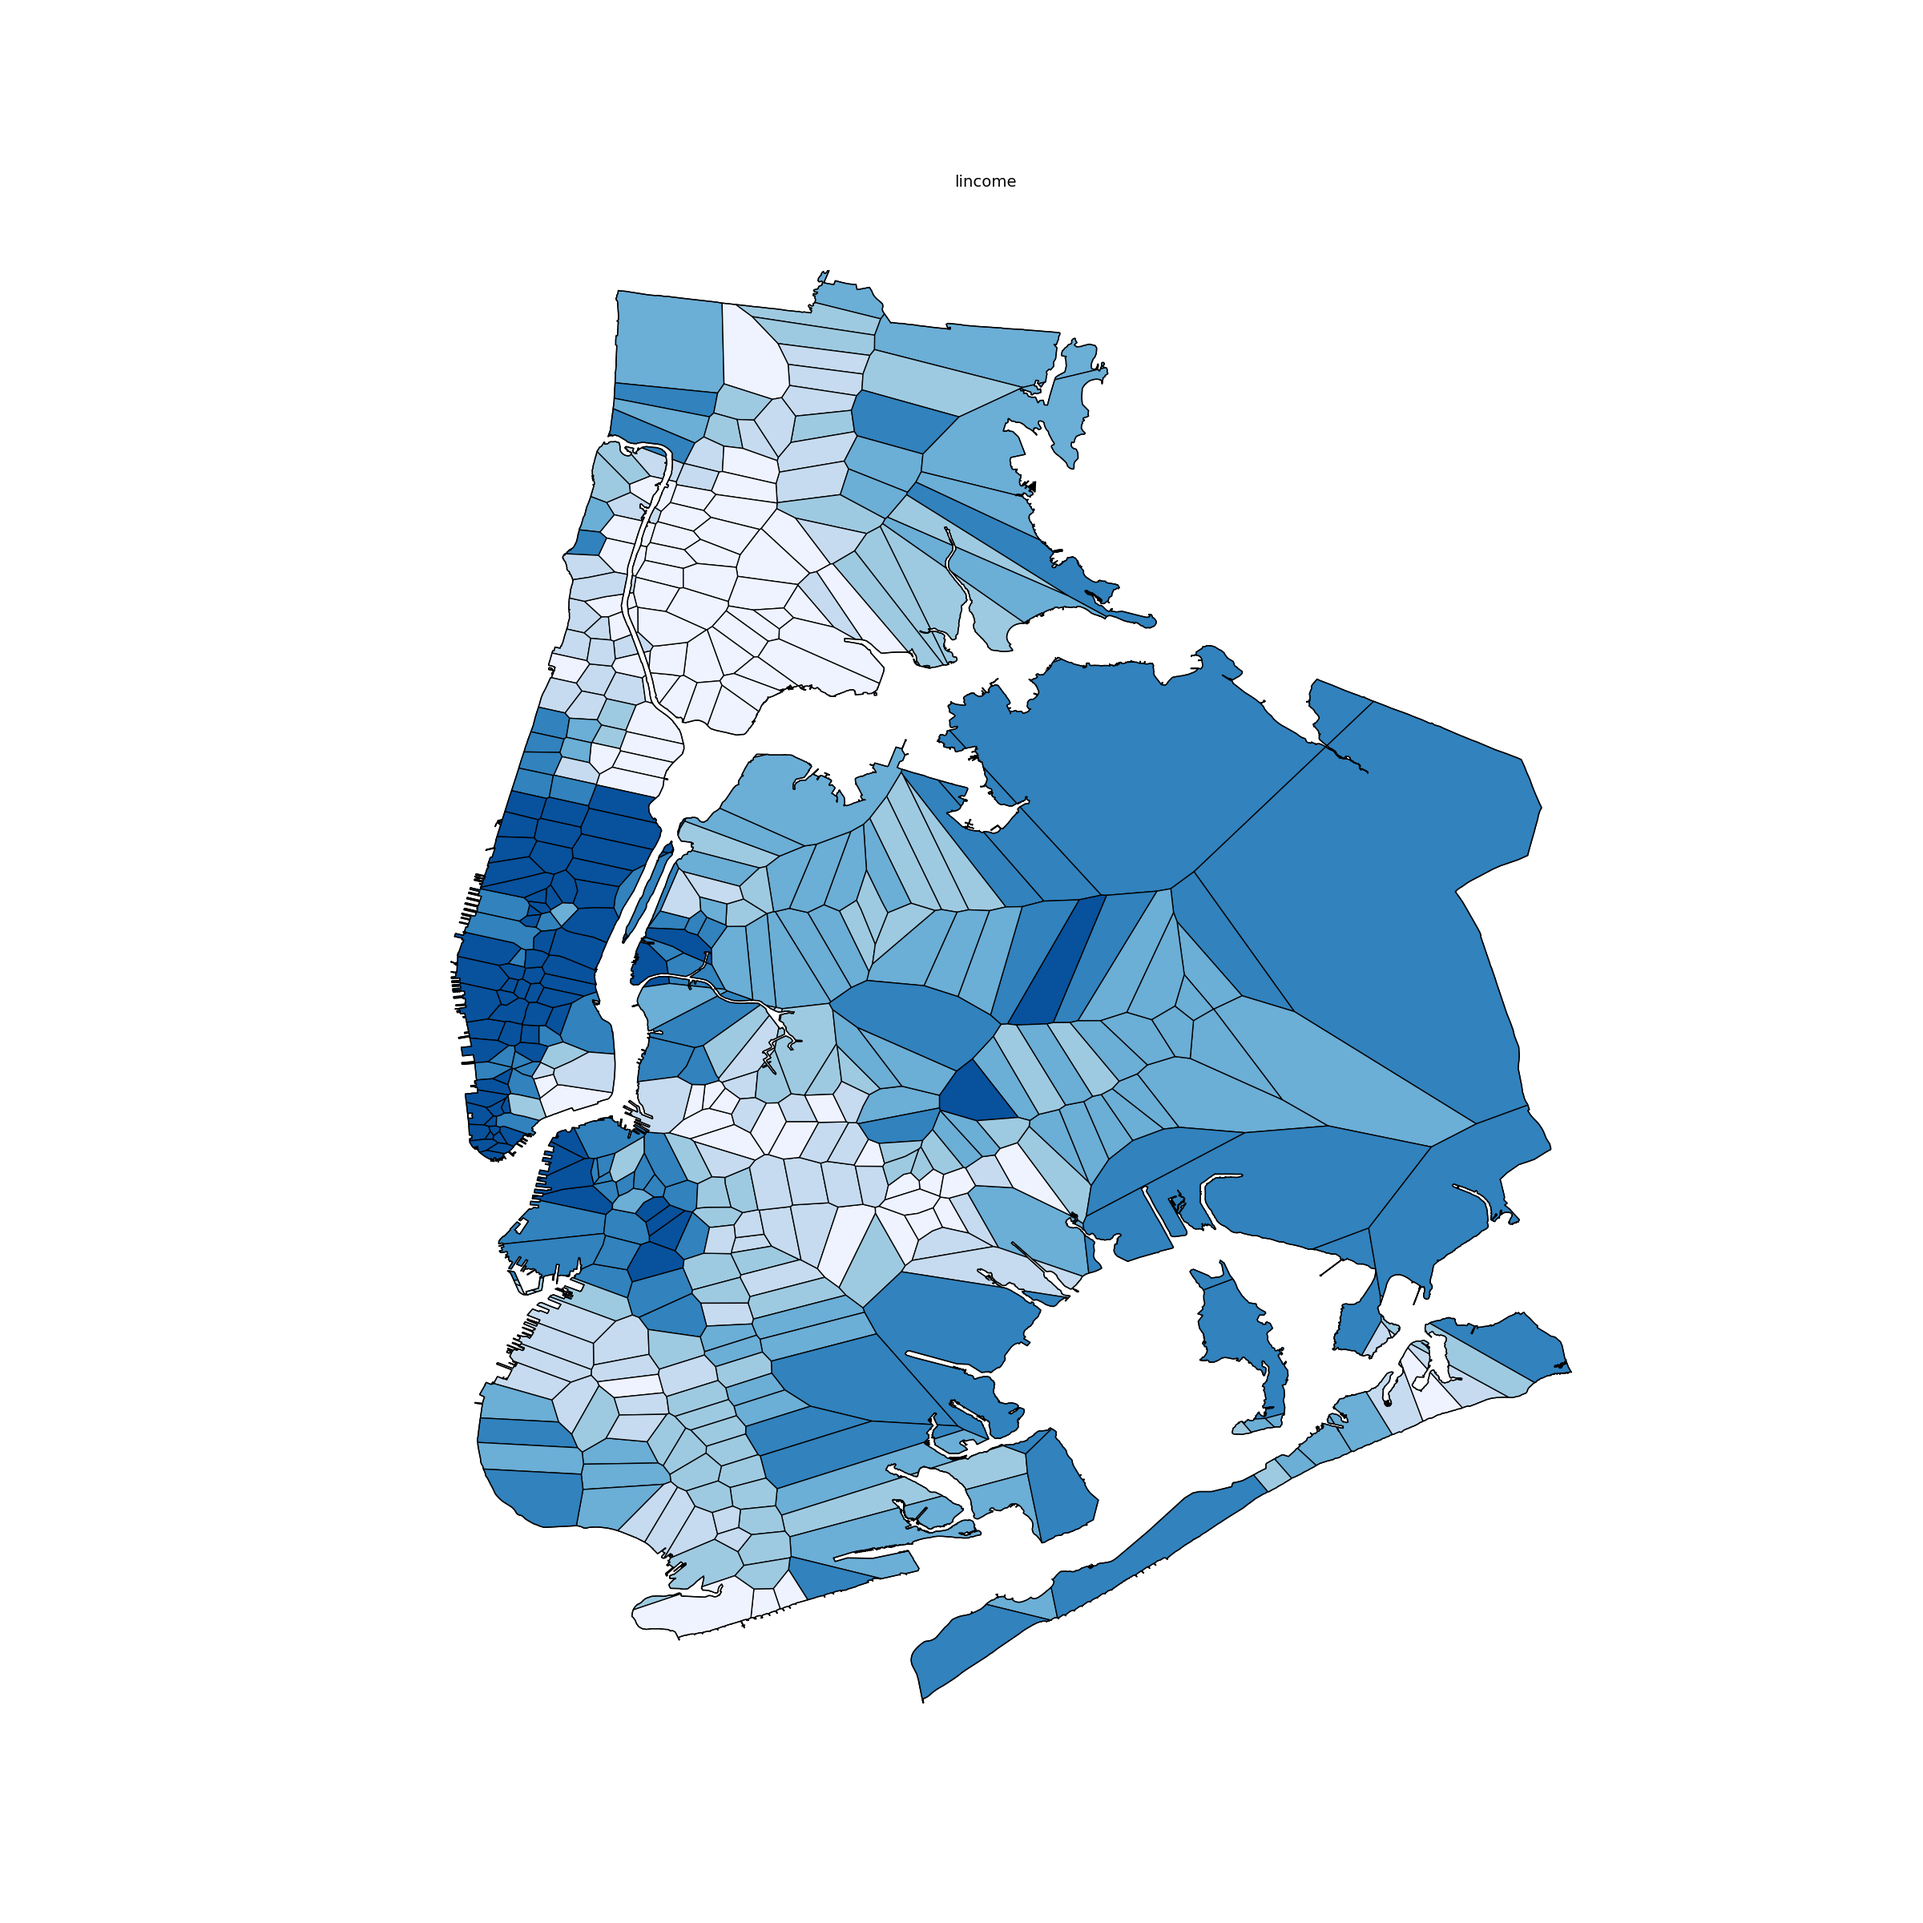
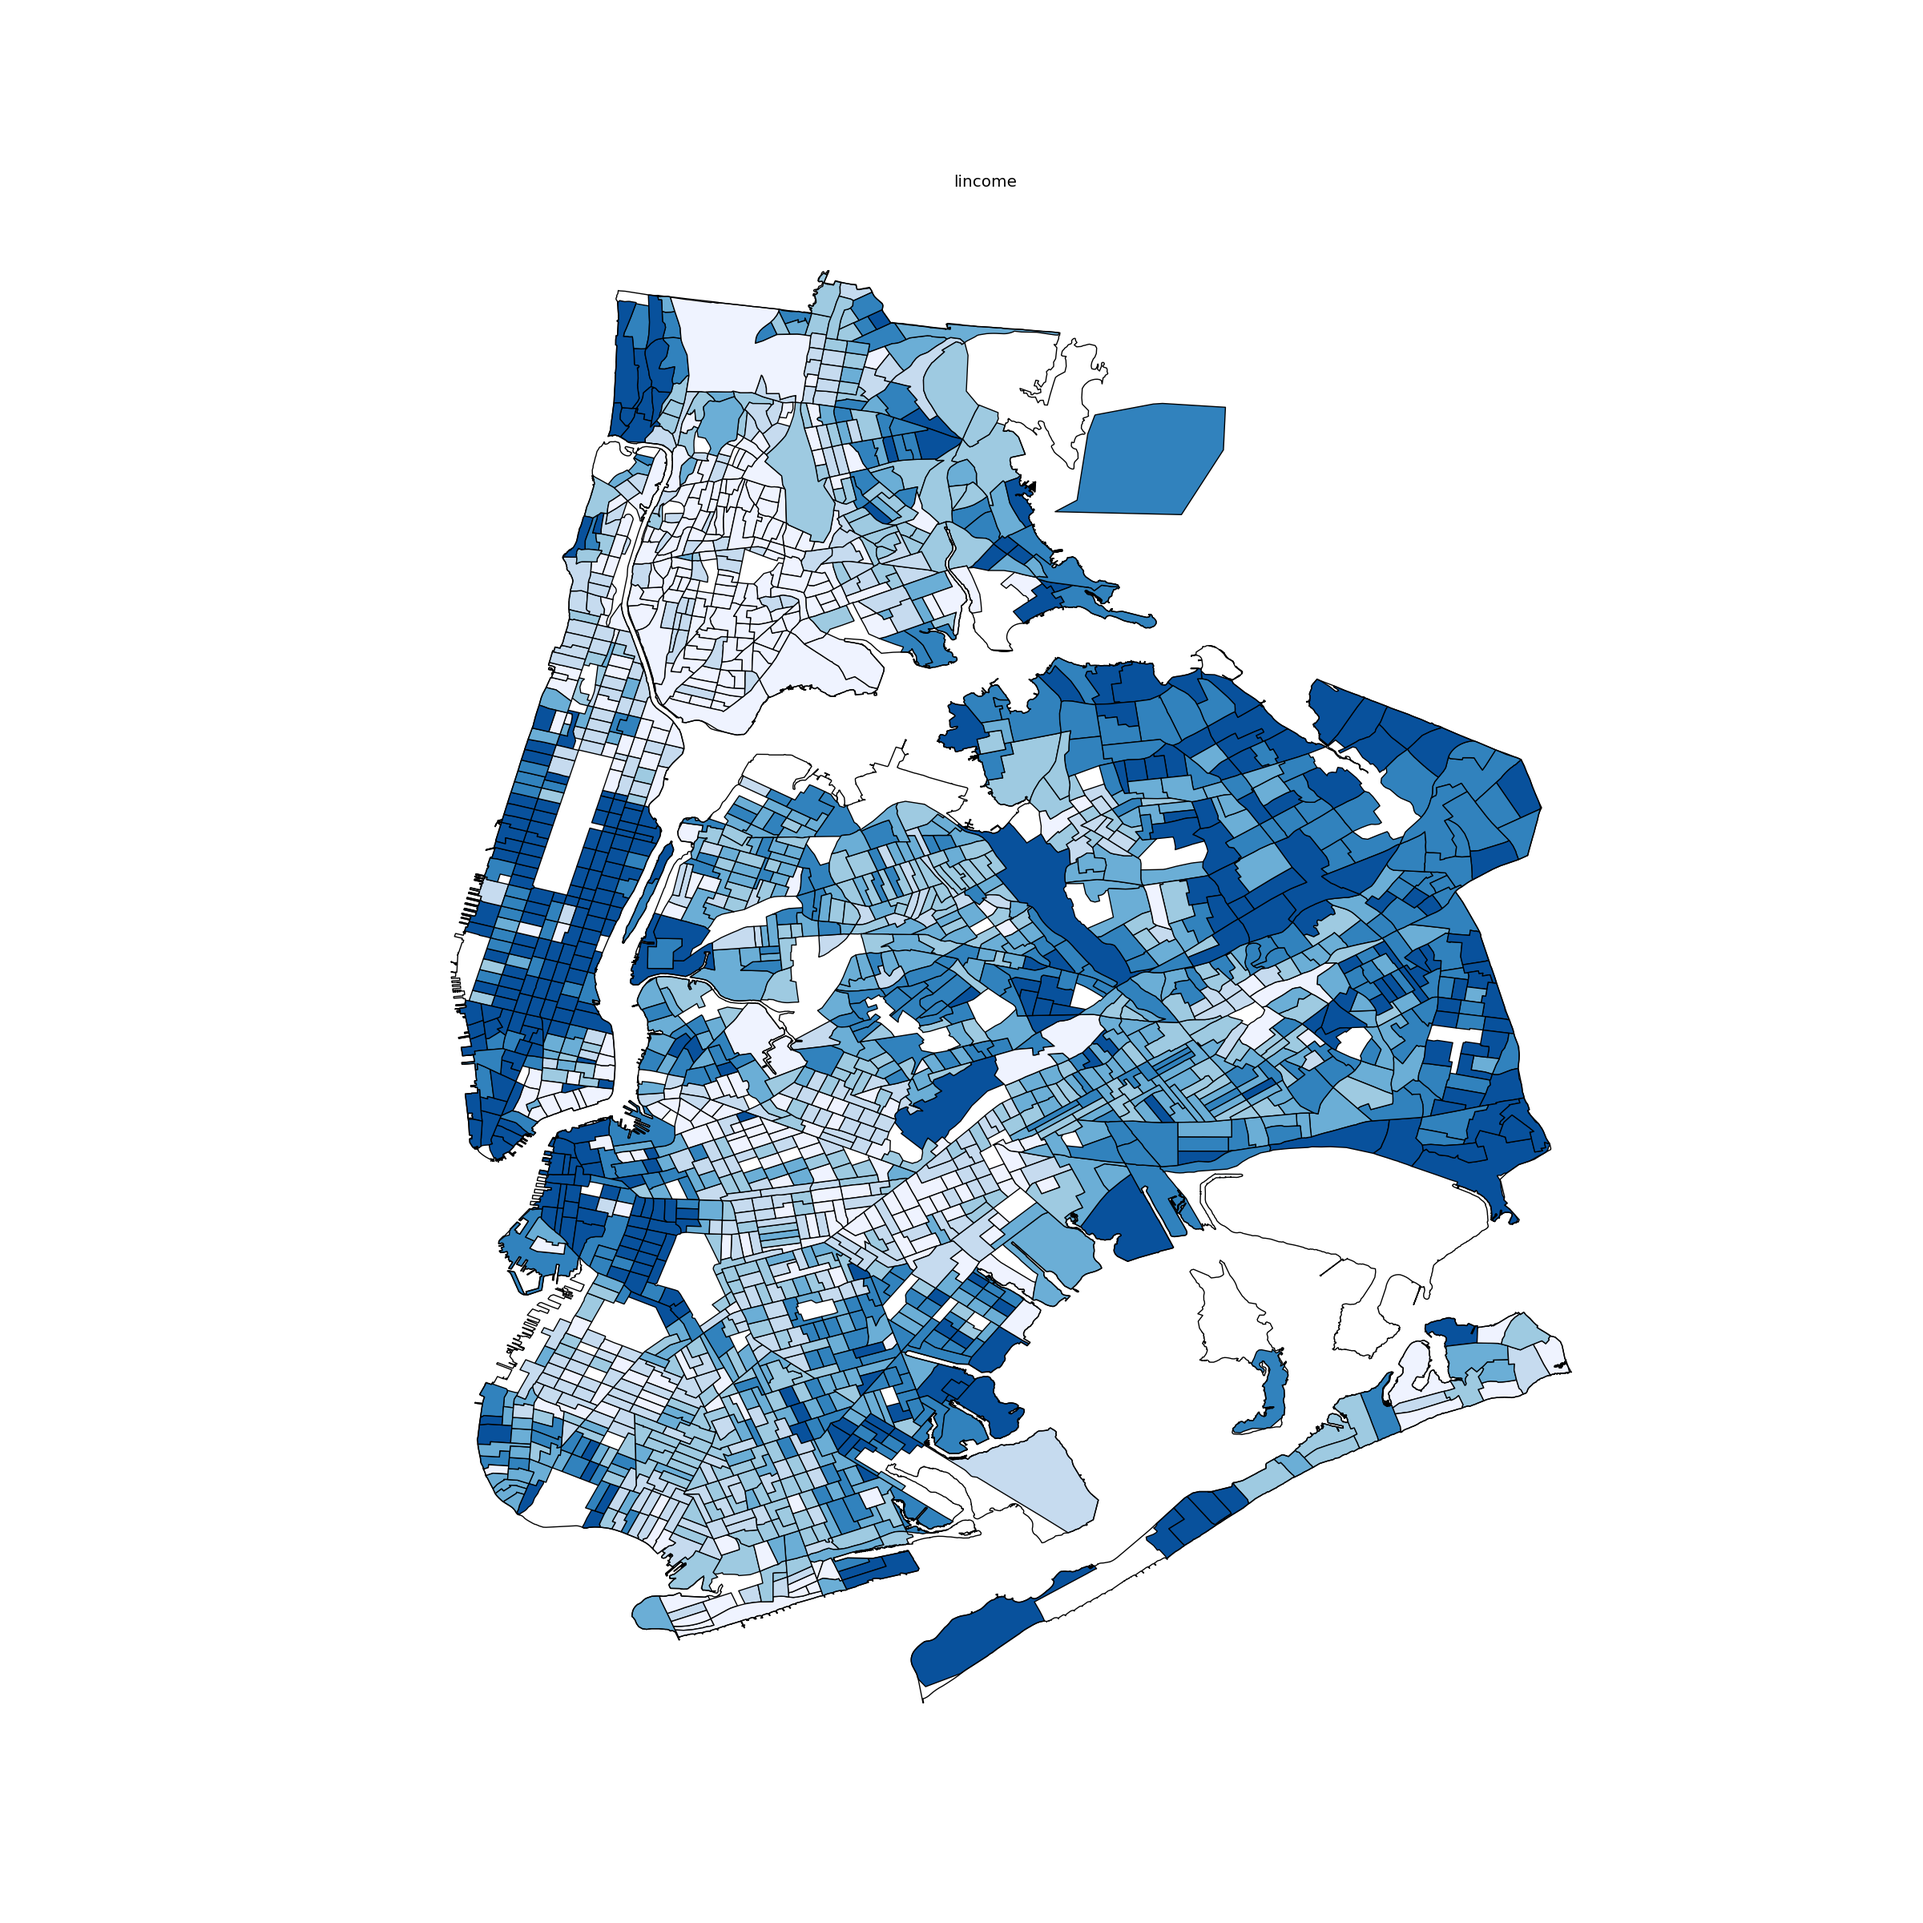
general utility functions

Changed region(s): [[0.2188, 0.125, 0.8125, 0.875]]

diff --git a/choropleth.py b/choropleth.py
@@ -7,51 +7,53 @@ import numpy as np
 # stops = pickle.load(open('save/stops_pop.p','rb'))
 tracts = pickle.load(open('save/tracts.p','rb'))
 
-measure = 'lpop_dens'
-outname = 'save/plots/choropleth_' + measure + '.png'
+measures = ['lpop_dens','lincome','graph_connectedness','v_larea']
 
-# Plotting
-# # This is a choropleth according to area
-fig = plt.figure(1,dpi=540,frameon=False)
-plt.title(measure)
-ax = fig.add_subplot(111)
-
-fig.set_size_inches(24,24)
-ax.axis('off')
-
-# calculate percentiles for binning area
-q = float(100)/6
-qs = q*np.arange(7)
-qs = np.percentile(tracts[measure], qs.tolist())
-qs = np.vstack([qs[:-1], qs[1:]]).T
-
-# 'Blues' colorscheme from colorbrewer2.org; ascending from white to blue
-colors = ['#EFF3FF', '#C6DBEF', '#9ECAE1', '#6BAED6', '#3182BD', '#08519C']
-for row in tracts.iterrows():
-    row = row[1]
-    if not np.isnan(row[measure]):
-        polygon = row['region']
-
-        # plot region
-        # find index of bin for coloring
-        comparison = row[measure] <= qs
-        if np.all(comparison):
-            color_index = 0
-        else:
-            color_index = np.where(np.logical_xor(comparison[:,0],comparison[:,1]))[0][0]
-        c = colors[color_index]
-
-        if polygon.geom_type == 'Polygon':
-            ax.add_patch(PolygonPatch(polygon,facecolor=c,edgecolor="#000000"))
-        elif polygon.geom_type == 'MultiPolygon':
-            for subpolygon in polygon:
-                ax.add_patch(PolygonPatch(subpolygon,facecolor=c,edgecolor="#000000"))
-
-
-nyc = pickle.load(open('save/nyc.p','rb'))
-for clip in nyc:
-    x, y = clip.exterior.xy
-    ax.plot(x, y, color="#000000", linewidth=1, zorder=2)
-
-plt.savefig(outname)
-plt.close()
+for measure in measures:
+    outname = 'save/plots/choropleth_' + measure + '.png'
+    
+    # Plotting
+    # # This is a choropleth according to area
+    fig = plt.figure(1,dpi=540,frameon=False)
+    plt.title(measure)
+    ax = fig.add_subplot(111)
+    
+    fig.set_size_inches(24,24)
+    ax.axis('off')
+    
+    # calculate percentiles for binning area
+    q = float(100)/6
+    qs = q*np.arange(7)
+    qs = np.percentile(tracts[measure], qs.tolist())
+    qs = np.vstack([qs[:-1], qs[1:]]).T
+    
+    # 'Blues' colorscheme from colorbrewer2.org; ascending from white to blue
+    colors = ['#EFF3FF', '#C6DBEF', '#9ECAE1', '#6BAED6', '#3182BD', '#08519C']
+    for row in tracts.iterrows():
+        row = row[1]
+        if not np.isnan(row[measure]):
+            polygon = row['region']
+    
+            # plot region
+            # find index of bin for coloring
+            comparison = row[measure] <= qs
+            if np.all(comparison):
+                color_index = 0
+            else:
+                color_index = np.where(np.logical_xor(comparison[:,0],comparison[:,1]))[0][0]
+            c = colors[color_index]
+    
+            if polygon.geom_type == 'Polygon':
+                ax.add_patch(PolygonPatch(polygon,facecolor=c,edgecolor="#000000"))
+            elif polygon.geom_type == 'MultiPolygon':
+                for subpolygon in polygon:
+                    ax.add_patch(PolygonPatch(subpolygon,facecolor=c,edgecolor="#000000"))
+    
+    
+    nyc = pickle.load(open('save/nyc.p','rb'))
+    for clip in nyc:
+        x, y = clip.exterior.xy
+        ax.plot(x, y, color="#000000", linewidth=1, zorder=2)
+    
+    plt.savefig(outname)
+    plt.close()

diff --git a/tracts.py b/tracts.py
@@ -1,5 +1,7 @@
-mport pickle
+import pickle
+import rtree
 import numpy as np
+import pandas as pd
 import scipy.stats as stats
 
 import matplotlib.pyplot as plt
@@ -9,5 +11,52 @@ nyc = pickle.load(open('save/nyc.p','rb'))
 tracts = pickle.load(open('save/tracts.p','rb'))
 stops = pickle.load(open('save/stops.p','rb'))
 
-x = tracts['larea']
-y = tracts['lpop_dens']
+tracts.index = np.arange(len(tracts))
+
+incomes = {}
+f = open('save/median','r')
+f.readline()
+for line in f:
+    line = line.rstrip().split(',')
+    line[0] = line[0].split('US')[1]
+    incomes[line[0]] = float(line[1])
+f.close()
+
+income = []
+present = []
+for i in range(len(tracts.geoid)):
+    tract = tracts['geoid'].iloc[i]
+    if tract in incomes.keys():
+        present.append(i)
+        income.append(incomes[tract])
+tracts = tracts.iloc[present]
+tracts['income'] = income
+tracts['lincome'] = np.log(tracts['income'])
+
+idx = rtree.index.Index()
+for i in range(len(stops)):
+    stop = stops.iloc[i]
+    x = stop['x']
+    y = stop['y']
+    idx.insert(i,(x,y,x,y))
+
+tracts['v_area'] = np.tile(np.nan,len(tracts))
+tracts['v_larea'] = np.tile(np.nan,len(tracts))
+tracts['rolle_connectedness'] = np.tile(np.nan,len(tracts))
+tracts['graph_connectedness'] = np.tile(np.nan,len(tracts))
+tracts['borough'] = np.tile('',len(tracts))
+
+for i in range(len(tracts)):
+    tract = tracts.iloc[i]
+    left,bottom,right,top = tract['region'].bounds
+    n = list(idx.nearest((left,bottom,right,top),1))
+    tract_stops = stops.iloc[n]
+    tracts['v_area'].iloc[i] = np.mean(tract_stops['v_area'])
+    tracts['v_larea'].iloc[i] = np.mean(tract_stops['v_larea'])
+    tracts['rolle_connectedness'].iloc[i] = np.mean(tract_stops['rolle_connectedness'])
+    tracts['graph_connectedness'].iloc[i] = np.mean(tract_stops['graph_connectedness'])
+    tracts['borough'].iloc[i] = tract_stops['borough'].iloc[0]
+
+tracts['borough'] = pd.Categorical(tracts['borough'])
+tracts.index = np.arange(len(tracts))
+pickle.dump(tracts,open('save/tracts.p','wb'))

diff --git a/utils.py b/utils.py
@@ -1,0 +1,17 @@
+import numpy as np
+def corr(x,y,k):
+    print 'lag: %i' % k
+
+    if k > 0:
+        x = x[:-k]
+        y = y[k:]
+    elif k < 0:
+        k = np.abs(k)
+        x = x[k:]
+        y = y[:-k]
+
+    xbar = np.mean(x)
+    ybar = np.mean(y)
+    r = np.sum( (x-xbar)*(y-ybar) ) / np.sqrt(sum( (x-xbar)**2 ) * sum(
+        (y-ybar)**2 ))
+    print r
